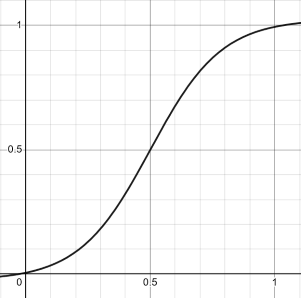
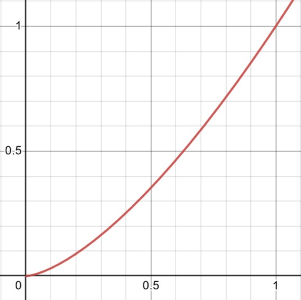
Updated metric formula

diff --git a/signwriting_evaluation/metrics/symbol_distance.py b/signwriting_evaluation/metrics/symbol_distance.py
@@ -14,45 +14,45 @@ class SignWritingSimilarityMetric(SignWritingMetric):
         super().__init__("SymbolsDistances")
         self.symbol_classes = {
             'hand_shapes': range(0x100, 0x205),
-            'contact_symbols': range(0x205, 0x221),
-            'movement_paths': range(0x221, 0x2FF),
-            'head_movement': range(0x2FF, 0x30A),
-            'facial_expressions': range(0x30A, 0x36A),
-            'etc': range(0x36A, 0x38C)
+            'contact_symbols': range(0x205, 0x2FF),
+            'etc': range(0x2FF, 0x38C)
         }
         self.weight = {
-            "shape": 24,  # same weight as switching parallelization
-            "facing": 8,  # one column (facing) equals 8 out of 16 lines of the table (like switching hands)
-            "angle": 1,  # lowest importance out of the criteria
-            "parallel": 24,  # parallelization is 3 columns compare to 1 for the facing direction
-            "positional": 1,  # may be big numerical differance, balancing with 1
-            "normalized_factor": 1 / 5,  # fitting shape of function
-            "class_penalty": 84,  # big penalty for each class type passed
+            "shape": 5,  # same weight as switching parallelization
+            "facing": 5/3,  # more important than angle, not as much as shape and orientation
+            "angle": 5/24,  # lowest importance out of the criteria
+            "parallel": 5,  # parallelization is 3 columns compare to 1 for the facing direction
+            "positional": 1/10,  # may be big values
+            "normalized_factor": 1 / 3,  # fitting shape of function
+            "exp_factor": 1.5,  # exponential distribution
+            "class_penalty": 250,  # big penalty for each class type passed
         }
         self.max_distance = self.calculate_distance({"symbol": "S10000", "position": (250, 250)},
                                                     {"symbol": "S38b07", "position": (750, 750)})
-
-    def get_shape_class_index(self, shape: int) -> int:
-        return next((i for i, r in enumerate(self.symbol_classes.values()) if shape in r), None)
 
     def get_attributes(self, symbol: SignSymbol) -> Tuple[int, int, int, bool]:
         shape = int(symbol['symbol'][1:4], 16)
         facing = int(symbol['symbol'][4], 16)
         angle = int(symbol['symbol'][5], 16)
-        parallel = facing > 2  # left or right of sign table (0 vertical, 1 horizontal)
+        parallel = facing > 2
         return shape, facing, angle, parallel
 
     def calculate_distance(self, hyp: SignSymbol, ref: SignSymbol) -> float:
-        shape1, angle1, facing1, parallel1 = self.get_attributes(hyp)
-        shape2, angle2, facing2, parallel2 = self.get_attributes(ref)
-        distance = (self.weight["shape"] * abs(shape1 - shape2) +
-                    self.weight["facing"] * abs(facing1 - facing2) +
-                    self.weight["angle"] * abs(angle1 - angle2) +
-                    self.weight["parallel"] * (parallel1 != parallel2) +
+        hyp_veq = self.get_attributes(hyp)
+        ref_veq = self.get_attributes(ref)
+
+        hyp_class = next((i for i, r in enumerate(self.symbol_classes.values()) if hyp_veq[0] in r), None)
+        ref_class = next((i for i, r in enumerate(self.symbol_classes.values()) if ref_veq[0] in r), None)
+
+        hyp_veq = tuple(val * weight for val, weight in zip(hyp_veq, [self.weight["shape"], self.weight["angle"],
+                                                                      self.weight["facing"], self.weight["parallel"],
+                                                                      self.weight["positional"]]))
+        ref_veq = tuple(val * weight for val, weight in zip(ref_veq, [self.weight["shape"], self.weight["angle"],
+                                                                      self.weight["facing"], self.weight["parallel"],
+                                                                      self.weight["positional"]]))
+        distance = (dis.euclidean(hyp_veq, ref_veq) +
                     self.weight["positional"] * dis.euclidean(hyp["position"], ref["position"]))
-        hyp_class = self.get_shape_class_index(shape1)
-        ref_class = self.get_shape_class_index(shape2)
-        distance = distance + abs(ref_class - hyp_class) * self.weight["class_penalty"]
+        distance = distance + abs(hyp_class - ref_class) * self.weight["class_penalty"]
         return distance
 
     def normalized_distance(self, unnormalized: float) -> float:
@@ -70,7 +70,7 @@ class SignWritingSimilarityMetric(SignWritingMetric):
         return abs(len(hyp) - len(ref)) / (max(len(hyp), len(ref)) + 1)
 
     def error_rate(self, hyp: Sign, ref: Sign) -> float:
-        # Calculate the evaluate score for a given hypiction and ref.
+        # Calculate the evaluate score for a given hypothesis and ref.
         if (not hyp["symbols"] and ref["symbols"]) or (hyp["symbols"] and not ref["symbols"]):
             return 1
         cost_matrix = np.array(
@@ -83,11 +83,11 @@ class SignWritingSimilarityMetric(SignWritingMetric):
         values = [cost_matrix[row, col] for row, col in pairs]
         mean_cost = sum(values) / len(values)
         length_error = self.length_acc(hyp, ref)
-        length_weight = (1.05 / (1 + exp(-7 * length_error + 3.5))) - 0.025
+        length_weight = pow(length_error, self.weight["exp_factor"])
         return length_weight + mean_cost * (1 - length_weight)
 
     def score(self, hypothesis: str, reference: str) -> float:
-        # Calculate the evaluate score for a given hypiction and ref.
+        # Calculate the evaluate score for a given hypothesis and ref.
         hyp = fsw_to_sign(hypothesis)
         ref = fsw_to_sign(reference)
-        return 1 - self.error_rate(hyp, ref)
+        return pow(1 - self.error_rate(hyp, ref), 2)

diff --git a/signwriting_evaluation/metrics/test_symbol_distance.py b/signwriting_evaluation/metrics/test_symbol_distance.py
@@ -13,6 +13,12 @@ class TestSignWritingSymbolDistance(unittest.TestCase):
         self.assertIsInstance(score, float)  # Check if the score is a float
         self.assertAlmostEqual(score, 0.553759637444978)
 
+        hypothesis = "M530x538S37602508x462S15a11493x494S20e00488x510S22f03469x517"
+        reference = "M530x538S22f03469x517S37602508x462S20e00488x510S15a11493x494"
+        score = self.metric.score(hypothesis, reference)
+        self.assertIsInstance(score, float)  # Check if the score is a float
+        self.assertAlmostEqual(score, 1)
+
 
 if __name__ == '__main__':
     unittest.main()

diff --git a/signwriting_evaluation/metrics/symbol_distance.md b/signwriting_evaluation/metrics/symbol_distance.md
@@ -27,9 +27,9 @@ $$
 3. Matching and Grading: Utilizes symbol distances to generalize similarity for entire signs. The Hungarian algorithm
 matches similar parts, and using a weight calculated using the formula below, the weighted mean accounts for length differences.
 
-![Graph of f(x) = \left(\frac{1.05}{1+e^{-7x+3.5}}\right)-0.025](/assets/equations/graph2.png)
+![Graph of f(x) = x^{\frac{3}{2}}](/assets/equations/graph2.png)
 
 
 $$
-q\left(x\right)=\left(\frac{1.05}{1+e^{-7x+3.5}}\right)-0.025
+f(x) = x^{\frac{3}{2}}
 $$
